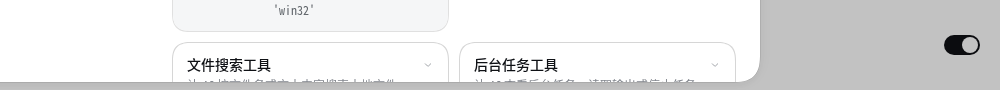
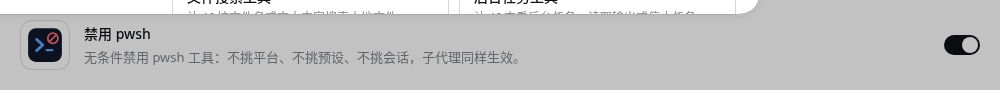
feat(v0.1.2)：适配 DSH 0.2.2-rc.1 + 文档/截图/英文文案修复 (#5) (#6)
- 逐行核对 0.2.1-rc.2 → 0.2.2-rc.1：tools.restrict/view/get、agent/created 串行派发、agent/disposed、agents.list、tools/change、global 选项、base 与 web 预设的 pwsh 行均未变，代码无需改动
- Linux（0.2.2-rc.1）：单测 12/12、冒烟 4/4、目录与 tarball 安装 + 组合树、安装态探针、截图脚本全过
- Wine/win32（Windows DSH 0.2.2-rc.1）：六组用例全过；dsh plugin add 的 pnpm 路径 bug 仍复现，手工安装兜底已验证
- 修复 README 验证第 3 步（web 层 patch 无差异不产生归属标注，改用 headless）、Windows 注意补 0.2.2 版本范围
- 重拍两张实机截图（旧 plugin-installed 图内容错误）
- locale/en.json 改英文；截图脚本加固预览版弹窗时序（连跑 3 次通过）

diff --git a/docs/verification.md b/docs/verification.md
@@ -1,13 +1,62 @@
 # 验证记录
 
-环境：
+对应版本：**v0.1.2（当前）** 与 v0.1.0 / v0.1.1（历史）。
 
-- **Linux**：Fedora + Node `v24.21.0` + DSH `0.2.1-rc.2`（`~/.npm-global` 安装，全局 CLI `dsh`）。
-- **Wine / win32**：Wine（`~/.wine-nodetest` 前缀）+ Windows Node `24.21.0`（`C:\node24\node.exe`）+ Windows DSH `0.2.1-rc.2`（`C:\npm-global\node_modules\@deepseek-ai\dsh`）。
+当前环境（v0.1.2 回归）：
 
-> Wine 侧全部跑在**独立 DSH_HOME**（`Z:\home\...\.scratch-pwsh\wine-home*`）里，没有碰机器上另一个正在使用的 DSH 实例与其 `C:\dsh-test-home`。
+- **Linux**：Fedora + Node `v24.21.0` + DSH `0.2.2-rc.1`（`~/.npm-global` 安装，全局 CLI `dsh`）。
+- **Wine / win32**：Wine（`~/.wine-nodetest` 前缀）+ Windows Node `24.21.0`（`C:\node24\node.exe`）+ Windows DSH `0.2.2-rc.1`（`C:\npm-global-022\node_modules\@deepseek-ai\dsh`，与原有 `C:\npm-global` 的 0.2.1-rc.2 并存）。
 
-## 一、Linux
+> Wine 侧全部跑在**独立 DSH_HOME**（`Z:\home\...\.scratch-pwsh\wine022\*`）里，没有碰机器上另一个正在使用的 DSH 实例与其 `C:\dsh-test-home`。
+
+## 零、DSH 0.2.2-rc.1 回归（v0.1.2）
+
+`0.2.1-rc.2 → 0.2.2-rc.1` 是跨 minor 升级。先对两个版本安装产物逐行 diff，再实跑。
+
+### 1. 上游 API 核对（均未变）
+
+| 依赖点 | 0.2.1-rc.2 → 0.2.2-rc.1 |
+|---|---|
+| `ctx.tools.restrict()` / `view()` / `get()` | 函数体逐字相同：unknown-tool 校验、scope 要求、`run_code` 保留名规则都不变 |
+| `agent/created` | 仍是 `await ctx.serial(carrier, "agent/created", { agent, source, signal })` —— 串行派发、监听器异常仍会让会话创建失败（插件的 try/catch 兜底仍然必要） |
+| `agent/disposed` / `agents.list()` / `tools/change` | 未变 |
+| 监听器 `{ global: true }` | cordis 4.1.0 仍支持 |
+| `dsh-base` 的 `tool-pwsh` 行 | 原样：`disabled: !!js process.platform !== 'win32'` |
+| web 预设 `standard` / `cordis` / `ptc` 的 `tool-pwsh`、`minimal` 的 `persistent-pwsh` | 行 id、包名、平台条件均原样 |
+| 工具名与提示词小节 | 仍为 `pwsh`；`tool:pwsh` 的「非零退出码」小节文案未变 |
+| 0.2.2 新增清单字段 `dsh.bundle.platforms` / `listedByDefault` | 均可选、默认不限平台/默认可见，本插件无需声明 |
+
+结论：代码不需要改；v0.1.2 只做版本、验证记录与文档修复。
+
+### 2. Linux（0.2.2-rc.1）
+
+| 验证 | 命令 | 结果 |
+|---|---|---|
+| 单元测试 | `node --test tests/plugin.test.mjs` | `tests 12 / pass 12 / fail 0` |
+| 真实 DSH 冒烟 | `node scripts/smoke.mjs` | 4/4（control=`present`，plugin/no-tool/host-row=`absent`） |
+| 目录安装 | `dsh plugin --profile web add <repo>` | 成功，`dsh.profile.bundles` 自动入栈 |
+| 组合树（headless） | `dsh --profile headless --dump-config` | `# == @deepseek-ai/dsh-base, patched by dsh-disable-pwsh` + `- id: tool-pwsh … disabled: true` + 末尾 `# == dsh-disable-pwsh` |
+| 组合树（web） | `dsh --profile web --dump-config \| tail -3` | 末尾是 `# == dsh-disable-pwsh` 与插件行。`tool-pwsh` 行在 bundle 层已被 `@deepseek-ai/dsh-web-app` 置为 `disabled: true`，本插件 patch 写入相同值 → 组合树**不记录归属**（属预期；v0.1.1 README 的断言在此不成立，v0.1.2 已修正文档） |
+| 安装态运行时 | 临时 DSH_HOME 装插件 + 探针 + 假 `pwsh` | `[probe] agent=session-… pwsh=absent` |
+| tarball 链路 | `npm pack` → `dsh plugin add *.tgz` | 41.2 kB / 12 文件；组合树与目录安装一致 |
+| 实机截图 | `node scripts/screenshot.mjs --port 3099` | 两张图生成，脚本内断言通过（0.2.2 UI 下重拍） |
+
+### 3. Wine / win32（0.2.2-rc.1，真实 `pwsh` 工具）
+
+Windows 版 DSH 0.2.2-rc.1 装在 `C:\npm-global-022`（与原有 `C:\npm-global` 的 0.2.1-rc.2 并存）；每条命令用独立 `DSH_HOME`，经 `cmd /c` 重定向到文件（Wine 下 stdout 直连 Linux 管道会 `EBADF`）：
+
+| 用例 | `--patch` 内容 | 探针结果 | 含义 |
+|---|---|---|---|
+| 对照 | 只插探针 | `pwsh=present` | win32 上 0.2.2 默认确实有真实 `pwsh` 工具 |
+| 插件行 | 插件 `index.js` 行 + 探针 | `pwsh=absent` | 运行时 `restrict` 移除了真实工具 |
+| 声明式等效 | `- id: tool-pwsh, disabled: true` + 探针 | `pwsh=absent` | bundle patch 半边生效 |
+| 无工具不报错 | 行禁用 + 插件行 + 探针 | `pwsh=absent`，无异常 | unknown-tool 不会拖垮会话创建 |
+| 手工安装（默认） | profile 放包 + bundles 列表 + 探针 | `pwsh=absent` | 安装形态下声明式生效（组合树带 `patched by dsh-disable-pwsh`） |
+| 手工安装 + 强制启用 | 同上 + `disabled: false` | `pwsh=absent` | 安装形态下运行时半边生效 |
+
+`dsh plugin add` 在 win32 上**仍然失败**（pnpm 被拼成 `C:\node24\\node_modules\pnpm\pnpm`），0.2.2-rc.1 未修复；README 的手工安装兜底在 0.2.2-rc.1 上按上面两条用例验证有效。
+
+## 一、Linux（历史：DSH 0.2.1-rc.2，v0.1.0 / v0.1.1）
 
 ### 1. 单元测试
 
@@ -48,10 +97,11 @@ node scripts/screenshot.mjs
 - `docs/images/plugin-inventory-tool-pwsh.png`：设置 → 内置插件 → 展开 `tool-pwsh` 卡片（脚本断言页面里确实有 `@deepseek-ai/dsh-tool-pwsh`、`完整名称`、`禁用条件`）。
 - `docs/images/plugin-installed.png`：侧栏「插件」面板 → 已安装插件 → 本插件卡片。
 
-两个坑（脚本里都处理了，重跑可复现）：
+三个坑（脚本里都处理了，重跑可复现）：
 
 1. dsh 打印的 URL 自带结尾斜杠，拼 `?token=` 时再斜杠一次会变成 `//?token=…`，服务端当成未知路径直接 400 —— 用 `new URL('?token=…', baseUrl)` 拼。
 2. 本机环境挂着 SOCKS 代理，Chrome 会把 `127.0.0.1` 也丢给代理 → `ERR_HTTP_RESPONSE_CODE_FAILURE` —— 启动参数加 `--no-proxy-server`。
+3. 「预览版说明」弹窗可能比页面骨架晚挂载，只点一次「继续」会点空、弹窗继续挡住账号菜单与「设置」按钮（实测偶发超时）—— 脚本改成「连续一段时间看不到『继续』才算关闭」，并在重试账号菜单前再清一次。
 
 ### 4. 真实安装（`dsh plugin add`）
 
@@ -69,13 +119,13 @@ DSH_HOME=/tmp/inst-test dsh --profile headless --dump-config | grep -A2 tool-pws
   disabled: true
 
 # == dsh-disable-pwsh
-- id: disable-pwsh
+- id: dsh-disable-pwsh
   name: dsh-disable-pwsh
 ```
 
 再用探针 + 假工具跑一次：`[probe] agent=session-… pwsh=absent`（说明**安装后的 bundle** 里插件行真的激活并移除了工具）。
 
-## 二、Wine / win32（真实 `pwsh` 工具）
+## 二、Wine / win32（历史：DSH 0.2.1-rc.2，真实 `pwsh` 工具）
 
 Wine 下 `node` 把 stdout/stderr 接到 Linux 管道会 `EBADF`，所以经 `cmd /c` 重定向到文件。headless 不走端口、不碰对方 DSH_HOME：
 
@@ -106,7 +156,7 @@ win32 上 `@deepseek-ai/dsh-base` 的 `tool-pwsh` 行本身是启用的（条件
   dsh.profile.bundles: [ ..., "dsh-disable-pwsh" ]
 ```
 
-## 三、对抗性代码复核
+## 三、对抗性代码复核（历史：v0.1.1）
 
 另起一轮只读复核（逐行对照 `dsh-tools` / `dsh-scope` / `cordis` 源码），结论与处理：
 
@@ -124,5 +174,6 @@ win32 上 `@deepseek-ai/dsh-base` 的 `tool-pwsh` 行本身是启用的（条件
 
 ## 四、未覆盖
 
-- **web 预设平面的真机 UI 验证**：需要浏览器/Web 会话驱动（`/api/remote.mux` 是 WebSocket RPC），本次未自动化。预设工具注册在 agent 作用域的祖先层，`tools.restrict` 的过滤发生在继承层（`view()` 对 global 与祖先层用同一套 `layers.every(admits)` 判定），与已验证的宿主平面是同一个代码路径；手工验证方式见 README「验证」第 3 步 + 在 Web 新会话里看模型工具列表。
-- DSH `0.2.0.x`：未测，`engines.dsh` 因此只声明 `>=0.2.1-rc.2 <0.3.0-0`。
+- **web 预设平面的真机 UI 验证**：仍未自动化（需要浏览器/Web 会话驱动，`/api/remote.mux` 是 WebSocket RPC）。预设工具注册在 agent 作用域的祖先层，`tools.restrict` 的过滤发生在继承层（`view()` 对 global 与祖先层用同一套 `layers.every(admits)` 判定），与已验证的宿主平面是同一个代码路径；手工验证方式见 README「验证」第 3 步 + 在 Web 新会话里看模型工具列表。0.2.2-rc.1 上只做了源码级核对（见 §零.1）。
+- **win32 的 Web 预设平面**：Wine 里没有跑浏览器；0.2.2-rc.1 只验了 headless（宿主平面）与安装形态，预设平面依赖上面的手工方式。
+- DSH `0.2.0.x`：未测，`engines.dsh` 因此只声明 `>=0.2.1-rc.2 <0.3.0-0`；`0.2.2-rc.1` 已实测（见 §零）。

diff --git a/README.md b/README.md
@@ -33,7 +33,7 @@ DSH 的工具有两个平面，本插件两层都管：
 
 ## 安装
 
-要求 DSH `>= 0.2.1-rc.2 < 0.3.0-0`（`engines.dsh`）。
+要求 DSH `>= 0.2.1-rc.2 < 0.3.0-0`（`engines.dsh`）。已实测 `0.2.1-rc.2`（v0.1.0 / v0.1.1）与 `0.2.2-rc.1`（v0.1.2，Linux + Wine/win32 两端），证据见 [docs/verification.md](docs/verification.md)。
 
 ```bash
 # 本地目录（开发时推荐：改完文件重启 dsh 即可，不用重装）
@@ -41,12 +41,12 @@ dsh plugin --profile web add /absolute/path/to/dsh-disable-pwsh
 
 # tarball
 pnpm pack
-dsh plugin --profile web add /absolute/path/to/dsh-disable-pwsh-0.1.1.tgz
+dsh plugin --profile web add /absolute/path/to/dsh-disable-pwsh-0.1.2.tgz
 ```
 
 装完**重启** `dsh web`（宿主行与 bundle patch 在启动时组合）。
 
-Windows / Wine 注意：`dsh plugin add` 依赖插件管理器解析 `pnpm`。DSH `0.2.1-rc.2` 在 win32 上存在 pnpm 路径拼接问题（`C:\node24\\node_modules\pnpm\pnpm` 找不到），若命令失败，可手工放置：
+Windows / Wine 注意：`dsh plugin add` 依赖插件管理器解析 `pnpm`。DSH `0.2.1-rc.2` 与 `0.2.2-rc.1` 在 win32 上**都存在**这个 pnpm 路径拼接问题（把 `pnpm` 拼成 `C:\node24\\node_modules\pnpm\pnpm`，报“不是内部或外部命令”；0.2.2-rc.1 上实测仍复现），若命令失败，可手工放置（0.2.2-rc.1 上已验证有效）：
 
 ```bat
 :: 1) 把仓库拷进 profile 的 node_modules（路径按你的 DSH_HOME 改）
@@ -74,16 +74,21 @@ node --test tests/plugin.test.mjs
 # 2) 真实 DSH 冒烟（临时 DSH_HOME + headless profile，4 项）
 node scripts/smoke.mjs
 
-# 3) 装进 profile 后看组合树：应出现 "# == dsh-disable-pwsh" 与
-#    "- id: tool-pwsh ... disabled: true"（带 "patched by dsh-disable-pwsh" 标注）
-dsh --profile web --dump-config | grep -B2 -A3 "dsh-disable-pwsh"
+# 3) 装进 profile 后看组合树。用 headless 看声明式半边：base 的 tool-pwsh 行原本是
+#    平台条件表达式，被本插件的 patch 改写成字面量 disabled: true，组合树才会记归属：
+#    "# == @deepseek-ai/dsh-base, patched by dsh-disable-pwsh" + "- id: tool-pwsh ... disabled: true"
+dsh --profile headless --dump-config | grep -B2 -A3 "tool-pwsh"
+
+#    web profile 里这行在 bundle 层已被 @deepseek-ai/dsh-web-app 置为 disabled: true，
+#    本插件 patch 写入相同值 → 组合树不记录归属（属预期）；只需确认末尾是本插件的行：
+dsh --profile web --dump-config | tail -3
 
 # 4) 实机截图：自建临时实例（独立 DSH_HOME + 端口 3099，不碰主端口 3080），
 #    用 headless Chrome 截「插件库存里的 tool-pwsh」与「已安装插件」两张图
 node scripts/screenshot.mjs
 ```
 
-Wine / 真 Windows 上还额外验证过「真实 `pwsh` 工具（不是假工具）被移除」，命令与结果见 [docs/verification.md](docs/verification.md)。
+Wine / 真 Windows 上还额外验证过「真实 `pwsh` 工具（不是假工具）被移除」，DSH `0.2.2-rc.1` 上的六组用例（对照 / 插件行 / host-row / 无工具 / 手工安装两侧）与命令见 [docs/verification.md](docs/verification.md)。
 
 ## 已知边界
 

diff --git a/CHANGELOG.md b/CHANGELOG.md
@@ -1,5 +1,16 @@
 # 更新日志
 
+## v0.1.2（2026-11-10）
+
+适配 DSH 0.2.2-rc.1（跨 minor 升级的兼容性回归）+ 修复现状调查发现的文档/资产问题。
+
+- **兼容性核对**：逐行 diff `0.2.1-rc.2 → 0.2.2-rc.1` 安装产物 —— `tools.restrict()` / `view()` / `get()` 函数体逐字相同；`agent/created` 仍是 `ctx.serial(...)` 串行派发（监听器异常仍会让会话创建失败，插件的 try/catch 兜底保留）；`agent/disposed`、`agents.list()`、`tools/change`、监听器 `{ global: true }` 均未变；`dsh-base` 与 web `standard`/`cordis`/`ptc`/`minimal` 预设里的 `tool-pwsh`/`persistent-pwsh` 行、工具名 `pwsh` 与提示词小节文案也未变。**代码无需改动**。
+- **回归**：Linux（0.2.2-rc.1）单测 12/12、真实 DSH 冒烟 4/4、目录与 tarball 安装 + 组合树、安装态探针 `pwsh=absent`、截图脚本全过；Wine/win32（Windows DSH 0.2.2-rc.1）六组用例全过（对照 `present`，插件行/声明式/无工具均 `absent`，手工安装形态默认与强制启用也 `absent`）。详见 `docs/verification.md`。
+- **文档修复**：README 验证第 3 步改为 `--profile headless` —— web 层里 `tool-pwsh` 已被 `@deepseek-ai/dsh-web-app` 置为 `disabled: true`，本插件 patch 写入相同值，组合树不会记录 `patched by dsh-disable-pwsh` 归属（v0.1.1 的断言不成立）；同时补上 web 下的正确检查方式，以及 0.2.2-rc.1 上 win32 `dsh plugin add` 的 pnpm 路径 bug 仍复现、手工安装兜底已验证。
+- **资产修复**：重拍 `docs/images/plugin-installed.png`（旧图内容是插件库存卡片，不是本插件卡片）与 `plugin-inventory-tool-pwsh.png`（0.2.2 UI）。
+- **截图脚本加固**：`scripts/screenshot.mjs` 不再假定「预览版说明」弹窗一定在页面骨架就绪时已经挂载 —— 改成连续一段时间看不到「继续」才算关闭，并在重试账号菜单前再清一次，消除实测偶发的「设置按钮超时」失败。
+- **英文文案**：`locale/en.json` 改为英文，英文界面不再显示中文标题/描述。
+
 ## v0.1.1（2026-11-02）
 
 发布前加固（对抗性代码复核后的修复）+ 实机截图。
